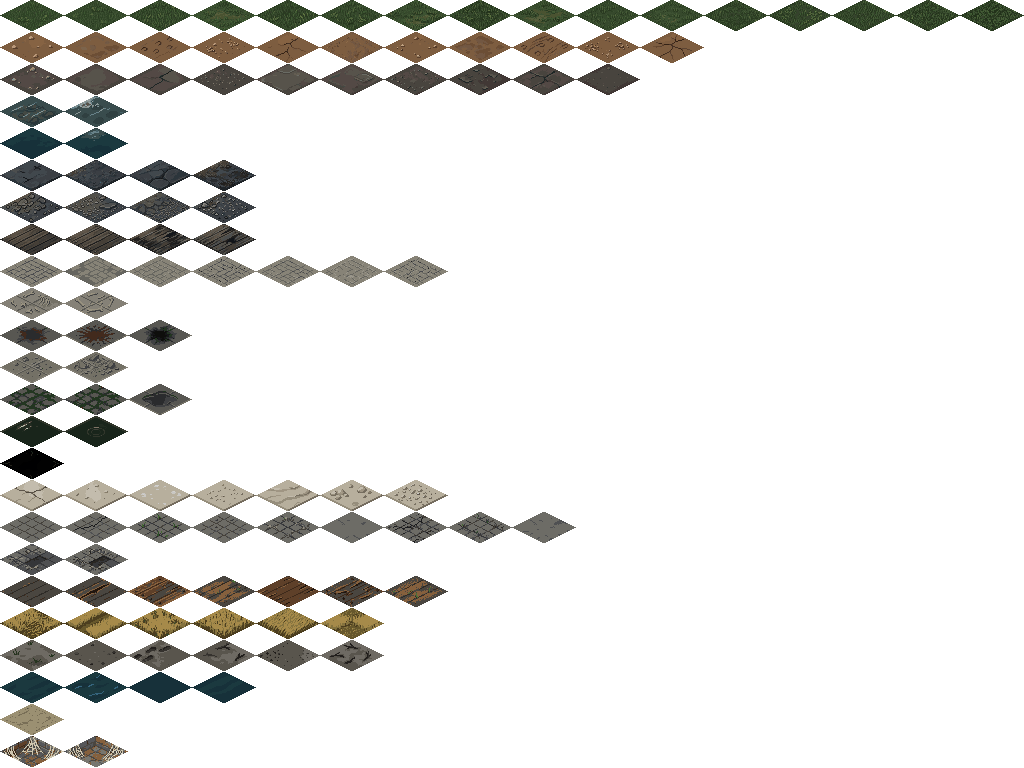
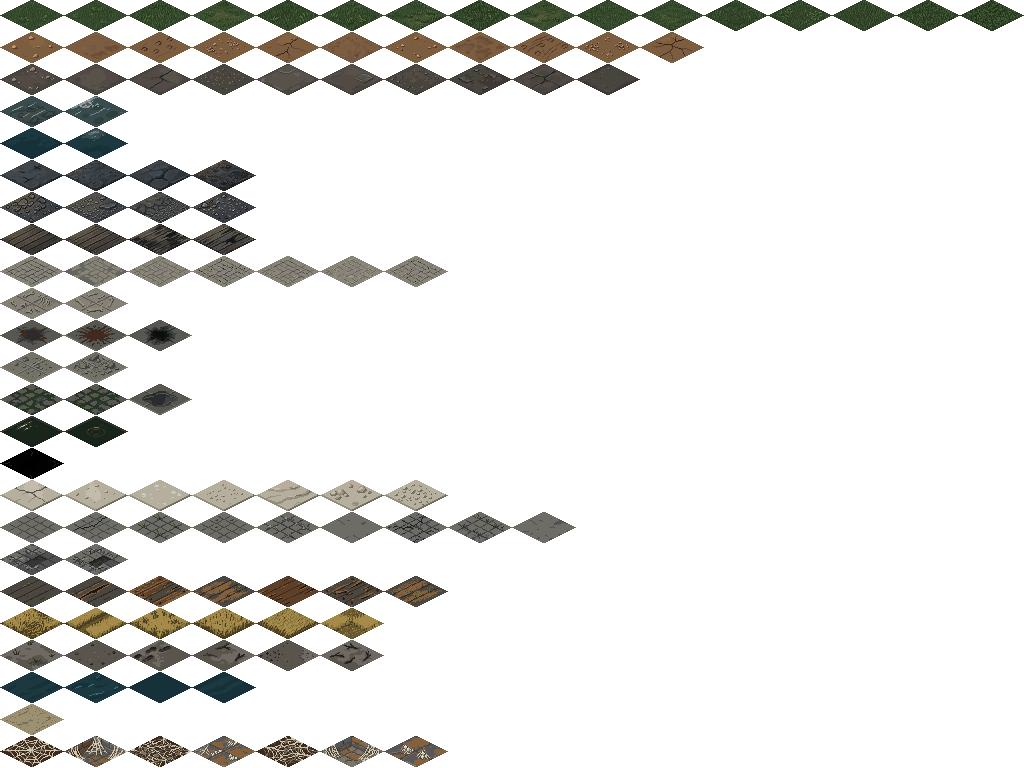
Arvore Trovao: acertos nas pecas do livro (placa, teia, alcapao)
A placa do Cavalo Pardo agora sempre sai (uma, na parede da estalagem perto da porta); a placa de perigo fica em campo aberto, longe das construcoes (parecia estar dentro da casa); o alcapao da guarnicao vai no meio da sala, a vista, e nao escondido atras de um beliche; a teia no chao passa de 2 para 7 variacoes (o filtro de aresta era estreito demais para o fio claro).

Changed region(s): [[0.0, 0.9688, 0.4375, 1.0]]

diff --git a/src/game/arvoretrovao.js b/src/game/arvoretrovao.js
@@ -329,8 +329,8 @@ export const MAPA_ARVORE_TROVAO = {
     "TT,,,,,,,,,,,,,,,T::b,,,::,,::::::,Z,b,bbT,,,,,,,,,,,,,,bbZZZZZZZ,,,,b,,bTTSSSSSSSSyy,,,bTT",
     "TT,,,,,,,,,,,,,,,T,,b,,,:,,,,::::ZZ,,,,,bb,,,:,,,,,,,,,,,ZZZZZZZZZ,,,,b,,,,SSSSSSSSSy,,,TTb",
     "TT,,,,,,,,,,,,,,,,bLLLL,:,,,,,,,,ZZTTTTTTT,,,b:::,,,,,,ZZ,ZZZZZ^ZZ:,^LL,,,,SSSSSSSSS,,,,,bb",
-    "TT,,,,,,,,,,,,,,,,,L^LL,::,,,,,,,,ZZTTTTTTTTbTb::b,,b,&LL,ZZZqZZZZ:,LLLb,,ySSSSSSSSST,,,,TT",
-    "TT,,,,,,,,,,,,,,,,,d&LL:::,,,,,,,,,ZTTTbTTTTTTb::,bbT,^LLZZZZZZZZ:::LLd,,,,ySSSSSSSS,y,,TTT",
+    "TT,,,,,,,,,,,,,,,,,L&LL,::,,,,,,,,ZZTTTTTTTTbTb::b,,b,&LL,ZZZqZZZZ:,LLLb,,ySSSSSSSSST,,,,TT",
+    "TT,,,,,,,,,,,,,,,,,d^LL:::,,,,,,,,,ZTTTbTTTTTTb::,bbT,^LLZZZZZZZZ:::LLd,,,,ySSSSSSSS,y,,TTT",
     "TT,,,,,,,,,,,,,,b,,g^Lj,,::,,b,,,,,::,bTbTTTTb:::bTTT,dLLZZZZZ,ZZ:::LL^,,,,TSSSSSSSSSy,,TTT",
     "TT,,,,,,,,,,,,,TTT,,,,,,,LL^^^,LLLLL:,,bTTb,::::TbbTT,,b,,ZZZ&,,::%%%%%%,,bTSSSSSSSSSy,,TTT",
     "TT,,,,,,,,,,,,bTTT,,,,b,,LxxLL,LLLLL::,,TT,:::TTTTTTTb,,b,ZZZLL,,:,,,%%%,,,TSSSSSSSSSb,,TTT",
@@ -361,7 +361,7 @@ export const MAPA_ARVORE_TROVAO = {
     ",,,,,,,,,,,,,,,,,,,,,,,,,,,,,,,,,:,,,%LLjL,,,,,,,,,,,,,,,,,,,,TTTTTTTTTTTTTTTT,,,,,,,,,,TTT",
     ",,,,,,,,,,,,,,,,,,,,,,,,,,,,,,,,,:,,,LdjLL,,,,,,,,,,,,,,,,,,,,bbTTTTTbbTTTTTTT,,,,,,,,,,TTb",
     ",,,,,,,,,,,,,,,,,,,,,,,,,,,,,,,,,:,,,LLLLL,,,,,,,,,,,,,,,,,,,bTbTTTTbTTTTT,,,,,,,,,,,,,,bTT",
-    ",,,,,,,,,,,,,,,,,,,,,,,,,,,,,,,,,:,,^&LLLL,,,,,,,,,,,,,,,,,,bbTTbbTTbTTTTT,,,,,,,,,,,,,,TTb",
+    ",,,,,,,,,,,,,,,,,,,,,,,,,,,,,,,,^:,,,&LLLL,,,,,,,,,,,,,,,,,,bbTTbbTTbTTTTT,,,,,,,,,,,,,,TTb",
     ",,,,,,,,,,,,,,,,,,,,,,,,,,,,,,,,,:,,,&LbLL,,,,,,,,,,,,,,,,,bTTTTTTTTbbTTTTTb,,,,,,,,,,,bTTT",
     ",,,,,,,,,,,,,,,,,,,,,,,,,,,,,,,,,:,,,%LjLm,,,,,,,,,,,,,,,,,,TTTTTTTTbTTTTTTTb,,,,,,,,,,,TTb",
     ",,,,,,,,,,,,,,,,,,,,,,,,,,,,,,,,,:,,,,,,,,,,,,,,,,,,,,,,,,,,TTTbTTTTTTTTTTTT,,,,,,,,,,,,TTT",
@@ -948,7 +948,7 @@ export const ARVORE_TROVAO = {
       "tipo": "prop",
       "x": 20,
       "y": 27,
-      "variante": "beliche"
+      "variante": "alcapaoFechado"
     },
     {
       "tipo": "prop",
@@ -961,7 +961,7 @@ export const ARVORE_TROVAO = {
       "tipo": "prop",
       "x": 20,
       "y": 28,
-      "variante": "alcapaoFechado",
+      "variante": "beliche",
       "espelhar": true
     },
     {
@@ -1580,7 +1580,7 @@ export const ARVORE_TROVAO = {
     },
     {
       "tipo": "prop",
-      "x": 36,
+      "x": 32,
       "y": 59,
       "variante": "placaCaveira"
     }
@@ -4145,6 +4145,12 @@ export const ARVORE_TROVAO = {
       "y": 59,
       "lado": "O",
       "tipo": "musgo"
+    },
+    {
+      "x": 63,
+      "y": 21,
+      "lado": "O",
+      "tipo": "placaPoney"
     },
     {
       "x": 51,

diff --git a/src/dev/mapa-arvoretrovao.py b/src/dev/mapa-arvoretrovao.py
@@ -889,7 +889,7 @@ ASSINATURA = {
     'florestal': ['camaCampo', 'fogueiraPanela', 'secadorErvas'],
 }
 ASSINATURA['loja'] = ['casuloElfo', 'casuloCorpo', 'prateleira']
-ASSINATURA['guarda'] = ['beliche', 'beliche', 'alcapaoFechado']
+ASSINATURA['guarda'] = ['alcapaoFechado', 'beliche', 'beliche']
 
 
 # NUNCA DUAS PECAS IGUAIS NA MESMA CASA, e nunca duas iguais viradas para o mesmo lado: a
@@ -935,8 +935,9 @@ for pid, cs in INTERIOR.items():
         _posta = False
         # Do mais rigoroso (encostada, fora da sombra da parede) ao mais frouxo (qualquer piso, ou
         # no lugar de um movel antigo): a assinatura TEM de sair, so o jeito muda.
-        for _rigor in (2, 1, 0):
-            for (x, y) in sorted(cs, key=lambda c: _embaralha(c[0], c[1], 83 + _rigor)):
+        # O alcapao e de chao: fica no MEIO da sala, a vista, nao escondido atras de um beliche.
+        for _rigor in ((1, 0) if _v.startswith('alcapao') else (2, 1, 0)):
+            for (x, y) in sorted(cs, key=lambda c: (_encosta(c[0], c[1]) if _v.startswith('alcapao') else 0, _embaralha(c[0], c[1], 83 + _rigor))):
                 if _junto_de_vao(x, y) or (_rigor >= 1 and _tapado(x, y)) or (_rigor == 2 and not _encosta(x, y)):
                     continue
                 if T[y][x] not in ('Ldvj' if _rigor else 'Ldvjmiusz'):
@@ -1183,6 +1184,23 @@ for y in range(H):
                 tipo = NASCE_NA_PEDRA[int(_embaralha(x, y, 9) * len(NASCE_NA_PEDRA))]
             if _cabe(x, y, lado, pid, tipo):
                 _pendura(x, y, lado, pid, tipo)
+
+# A PLACA DO CAVALO PARDO: uma so, na parede da estalagem perto da porta (o sorteio acima podia
+# nunca a escolher). Pendurada por dentro, como o resto da decoracao.
+if not any(d['tipo'] == 'placaPoney' for d in DECOR):
+    _vaos_est = [v[0] for v in VAOS['estalagem']]
+    _cand = []
+    for (x, y) in sorted(INTERIOR['estalagem']):
+        for lado, grade, (vx, vy) in (('N', PN, (x, y - 1)), ('O', PO, (x - 1, y))):
+            if grade[y][x] == '#' and REG(vx, vy) is None:
+                _d = min(abs(x - a) + abs(y - b) for (a, b) in _vaos_est)
+                _cand.append((_d, x, y, lado))
+    _cand.sort()
+    for (_d, x, y, lado) in _cand:
+        if _d >= 2 and not any((x + i, y + j) in _ocupadas for i in (-1, 0, 1) for j in (-1, 0, 1)):
+            _pendura(x, y, lado, 'estalagem', 'placaPoney')
+            break
+    print('placa do Cavalo Pardo:', [d for d in DECOR if d['tipo'] == 'placaPoney'])
 
 # A TORRE NUNCA SAÍA COM PEÇA: o laço acima compartilha o freio de "duas casas de
 # folga" entre prédios, e o arco da torre, encostado no Salão, perdia todas para
@@ -1803,10 +1821,12 @@ print('arte de chao de fora:', _conta_arte)
 TE[ESTATUA[1]][ESTATUA[0]] = '^'
 PROPS.append({'tipo': 'prop', 'x': ESTATUA[0], 'y': ESTATUA[1], 'variante': 'estatuaPalien'})
 _placa = None
-for _r in range(2, 7):
-    for _dx, _dy in ((_r, -_r), (-_r, -_r), (_r, 0), (-_r, 0), (0, -_r)):
+for _r in range(2, 9):
+    for _dx, _dy in ((_r, -_r), (-_r, -_r), (_r, 0), (-_r, 0), (0, -_r), (-_r, _r)):
         _px, _py = CHEGADA[0] + _dx, CHEGADA[1] + _dy
-        if 0 <= _px < W and 0 <= _py < H and T[_py][_px] == ',' and (_px, _py) not in _dentro:
+        # Em campo aberto: longe de qualquer construcao (4 casas), senao a placa parece estar dentro dela.
+        if 0 <= _px < W and 0 <= _py < H and T[_py][_px] == ',' and all(
+                abs(_px - a) + abs(_py - b) >= 4 for (a, b) in _dentro):
             _placa = (_px, _py)
             break
     if _placa:

diff --git a/src/dev/montar-chao.py b/src/dev/montar-chao.py
@@ -234,6 +234,8 @@ def main():
         # O campo e a agua ficam em extensao: sem aresta escura e sem tom que pule, ou viram grade.
         if nome in ('lago', 'cinza'):
             desvio, aresta_min = 8.0, -40.0
+        if nome == 'teia':          # o fio claro da teia escurece a aresta antes da limpeza
+            desvio, aresta_min = 14.0, -60.0
         if quais and len(candidatos) <= 2:
             desvio = 99.0
         for i, (t, (m, a)) in enumerate(zip(candidatos, medidas)):
